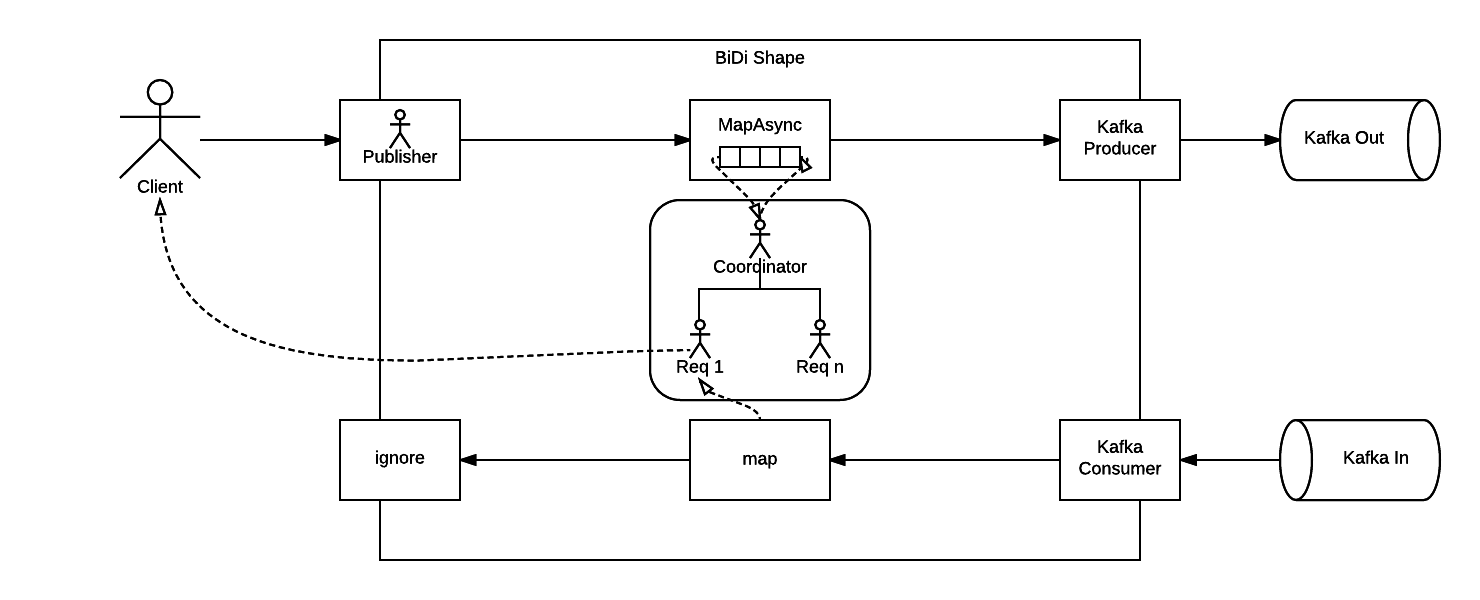
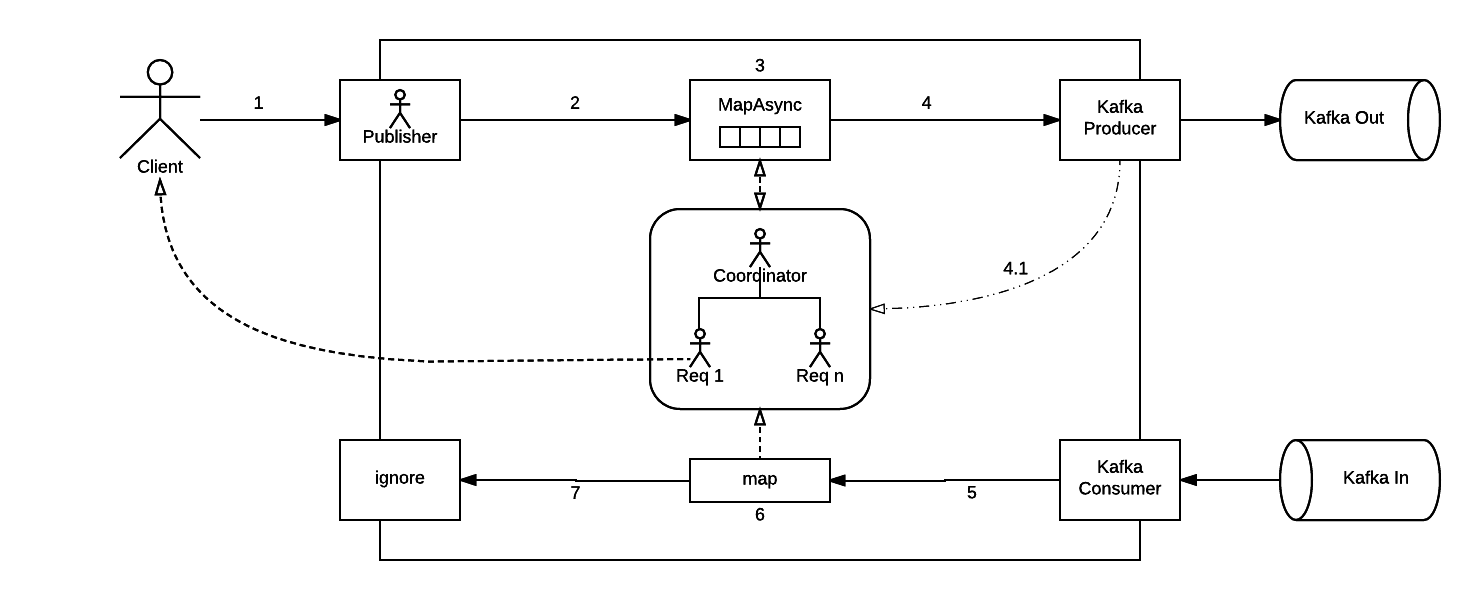
Updated documentation for the Reactive Client

diff --git a/docs/design/client.html b/docs/design/client.html
@@ -119,8 +119,8 @@ C16.952,7,17,6.553,17,6c0-0.553-0.048-1-0.6-1H3.6C3.048,5,3,5.447,3,6C3,6.553,3.
   <li><a href="../design/client.html#overview">Overview</a></li>
   <li><a href="../design/client.html#stream-blueprint">Stream Blueprint</a>
   <ul>
-    <li><a href="../design/client.html#left-to-right-flow">Left-To-Right Flow</a></li>
-    <li><a href="../design/client.html#right-to-left-flow">Right-To-Left Flow</a></li>
+    <li><a href="../design/client.html#request-flow-left-to-right-">Request Flow (Left-To-Right)</a></li>
+    <li><a href="../design/client.html#response-flow-right-to-left-">Response Flow (Right-To-Left)</a></li>
   </ul></li>
   <li><a href="../design/client.html#actor-per-request-pattern">Actor-Per-Request Pattern</a>
   <ul>
@@ -135,34 +135,39 @@ C16.952,7,17,6.553,17,6c0-0.553-0.048-1-0.6-1H3.6C3.048,5,3,5.447,3,6C3,6.553,3.
 <h2><a href="#stream-blueprint" name="stream-blueprint" class="anchor"><span class="anchor-link"></span></a>Stream Blueprint</h2>
 <p>The following diagram illustrates the Stream Blueprint for processing the incoming requests.</p>
 <p><img src="../images/reactive-client-stream-blueprint.png" alt="rcstream-blueprint" /></p>
-<h3><a href="#left-to-right-flow" name="left-to-right-flow" class="anchor"><span class="anchor-link"></span></a>Left-To-Right Flow</h3>
+<h3><a href="#request-flow-left-to-right-" name="request-flow-left-to-right-" class="anchor"><span class="anchor-link"></span></a>Request Flow (Left-To-Right)</h3>
 <ul>
-  <li>Whenever a request comes in, the Reactive System client spawns an actor by using the <em>Ask pattern</em> which sends a message to the Stream&rsquo;s Publisher and awaits for a response.</li>
-  <li>The request will flow downstream to the <em>Actor-Per-Request</em> Coordinator-Actor via a <em>mapAsync</em> stage. It will then:
+  <li>[ 1 ] Whenever a request comes in, the Reactive System client spawns an actor by using the <em>Ask pattern</em> which sends a message to the Stream&rsquo;s Publisher and awaits for a response.</li>
+  <li>[ 2 ]. The Publisher wraps the request together with the reference to the <em>ask-pattern-actor</em> as a <code>StreamRequestWithSender</code> and emits it downstream.</li>
+  <li>[ 3 ] The request will get into a <em>mapAsync</em> stage which is the integration point with the <em>Actor-Per-Request</em>, which will:
     <ul>
-      <li>Hold a reference to the ask-pattern-actor that will be completed on the right-to-left flow.</li>
-      <li>Transforms the request in a <code>KafkaRequestEnvelope</code> to be sent downstream.</li>
+      <li>Unwrap the <code>StreamRequestWithSender</code> message to hold the reference to the original <em>ask-pattern-actor</em>, which will be completed on the right-to-left flow.</li>
+      <li>Forge a <code>KafkaRequestEnvelope</code> for the request and sends it back to the <em>mapAsync</em> stage to be sent downstream.</li>
     </ul>
   </li>
-  <li>Sends the request through a Kafka Producer stage.</li>
+  <li>
+  <p>[ 4 ] Sends the request through a Kafka Producer stage.</p>
+  <blockquote>
+    <p>[ 4.1 ] When a <em>one-way-message</em> is sent to Kafka, this stage will send a <code>SendMessageComplete</code> to the <em>Actor-Per-Request</em> once the message is confirmed to be written in Kafka. That way the reply to the initial <em>ask-pattern-actor</em> can be sent straight away.</p>
+  </blockquote></li>
 </ul>
-<h3><a href="#right-to-left-flow" name="right-to-left-flow" class="anchor"><span class="anchor-link"></span></a>Right-To-Left Flow</h3>
+<h3><a href="#response-flow-right-to-left-" name="response-flow-right-to-left-" class="anchor"><span class="anchor-link"></span></a>Response Flow (Right-To-Left)</h3>
 <ul>
-  <li>The flow starts from a Kafka Consumer stage.</li>
-  <li>The response flow downstream to the <em>Actor-Per-Request</em> Coordinator-Actor via a <em>map</em> stage.
-    <ul>
-      <li>Is responsibility of the <em>Actor-Per-Request</em> implementation to reply to the initial ask-pattern-actor.</li>
-    </ul>
-  </li>
-  <li>The sink just ignores what comes from the flow as the responsibility of completing the request has been leveraged to the <em>Actor-Per-Request</em>.</li>
+  <li>[ 5 ] The flow starts from a Kafka Consumer stage when a response is received and decoded as a <code>KafkaResponseEnvelope</code> and emits it downstream.</li>
+  <li>
+  <p>[ 6 ] The response gets into a <em>map</em> stage which will send it to the <em>Actor-Per-Request</em> and emits <code>Unit</code> downstream.</p>
+  <blockquote>
+    <p>Is responsibility of the <em>Actor-Per-Request</em> to reply to the initial <em>ask-pattern-actor</em> in order to complete the original request.</p>
+  </blockquote></li>
+  <li>[ 7 ] The sink just ignores what comes from the flow as the responsibility of completing the request has been leveraged to the <em>Actor-Per-Request</em>.</li>
 </ul>
 <h2><a href="#actor-per-request-pattern" name="actor-per-request-pattern" class="anchor"><span class="anchor-link"></span></a>Actor-Per-Request Pattern</h2>
 <p>In a nutshell, the client will use an actor-per-request pattern in order to deliver the request and await for its response.</p>
 <p>The actor-per-request approach is implemented using Akka actors and its hierarchy consists of a parent Coordinator-Actor which creates and supervise one or many Request-Actor&rsquo;s.</p>
 <h3><a href="#coordinator-actor" name="coordinator-actor" class="anchor"><span class="anchor-link"></span></a>Coordinator Actor</h3>
 <p>Apart from supervising its children, the coordinator actor have two differentiated set of responsibilities:</p>
-<p>When receiving <strong>requests</strong>: - Accepts the incoming requests. - Generates a unique <code>correlationId</code> for each request. - Spawn a child actor that will be in charge of a particular request. - Tranforms the incoming request into a <code>KafkaRequestEnvelope</code> ready to be sent to Kafka and sends it downstream.</p>
-<p>When receiving <strong>responses</strong>: - Accepts the responses. - Based on the <code>correlationId</code> of the response, it looks for a child Request-Actor awaiting for the response and forwards the response to it.</p>
+<p>When receiving <strong>requests</strong>: * Accepts the incoming requests. * Generates a unique <code>correlationId</code> for each request. * Spawns a child actor that will be in charge of a particular request. * Tranforms the incoming request into a <code>KafkaRequestEnvelope</code> ready to be sent to Kafka and sends it downstream.</p>
+<p>When receiving <strong>responses</strong>: * Accepts the responses. * Based on the <code>correlationId</code> of the response, it looks for a child Request-Actor awaiting for the response and forwards the response to it.</p>
 <h3><a href="#request-actor" name="request-actor" class="anchor"><span class="anchor-link"></span></a>Request Actor</h3>
 <p>The main responsibility of a Request-Actor is to complete or time-out the request-cycle. </p>
 <p>When created, it&rsquo;s passed the source <em>ask-pattern-actor</em> reference to complete the cycle upon response reception and schedules a timeout in case the response is not received in a timely manner. </p>
@@ -178,8 +183,8 @@ C16.952,7,17,6.553,17,6c0-0.553-0.048-1-0.6-1H3.6C3.048,5,3,5.447,3,6C3,6.553,3.
     <li><a href="../design/client.html#overview">Overview</a></li>
     <li><a href="../design/client.html#stream-blueprint">Stream Blueprint</a>
     <ul>
-      <li><a href="../design/client.html#left-to-right-flow">Left-To-Right Flow</a></li>
-      <li><a href="../design/client.html#right-to-left-flow">Right-To-Left Flow</a></li>
+      <li><a href="../design/client.html#request-flow-left-to-right-">Request Flow (Left-To-Right)</a></li>
+      <li><a href="../design/client.html#response-flow-right-to-left-">Response Flow (Right-To-Left)</a></li>
     </ul></li>
     <li><a href="../design/client.html#actor-per-request-pattern">Actor-Per-Request Pattern</a>
     <ul>

diff --git a/docs/client.html b/docs/client.html
@@ -117,6 +117,7 @@ C16.952,7,17,6.553,17,6c0-0.553-0.048-1-0.6-1H3.6C3.048,5,3,5.447,3,6C3,6.553,3.
 <ul>
   <li><a href="client.html#overview">Overview</a></li>
   <li><a href="client.html#simple-request">Simple Request</a></li>
+  <li><a href="client.html#one-way-simple-request">One-Way Simple Request</a></li>
 </ul>
 </div>
 <h2><a href="#overview" name="overview" class="anchor"><span class="anchor-link"></span></a>Overview</h2>
@@ -179,12 +180,24 @@ val client = new ReactiveClientStream(ReactiveClientStreamConfig.default)
 val result: Future[Unit] = client.request[Int, Unit](&quot;kafka:simple/incrementCounter&quot;, 1)
 
 result.onComplete {
-  case Success(_)   =&gt; println(&quot;incrementCounter request sent successfully&quot;)
-  case Failure(err) =&gt; println(s&quot;error sending incrementCounter request: ${err.getMessage}&quot;)
+  case Success(_)   =&gt; println(&quot;incrementCounter request successfully completed&quot;)
+  case Failure(err) =&gt; println(s&quot;error requesting incrementCounter: ${err.getMessage}&quot;)
 }
 
 Await.ready(result, Duration.Inf)
 </code></pre>
+<h2><a href="#one-way-simple-request" name="one-way-simple-request" class="anchor"><span class="anchor-link"></span></a>One-Way Simple Request</h2>
+<p>The Reactive System client also allows to send a message to a remote service without awaiting for a reply from the target service.</p>
+<p>The following snippet shows how to invoke the API in order to send a message to the <code>incrementCounter</code> service without awaiting for a response:</p>
+<pre class="prettyprint"><code class="language-scala">val result: Future[Unit] = client.send[Int](&quot;kafka:simple/incrementCounter&quot;, 1, confirmSend = true)
+
+result.onComplete {
+  case Success(_)   =&gt; println(&quot;incrementCounter request successfully sent&quot;)
+  case Failure(err) =&gt; println(s&quot;error sending incrementCounter request: ${err.getMessage}&quot;)
+}
+
+Await.ready(result, Duration.Inf)</code></pre>
+<p>Please note even though this is a fire-and-forget way of sending a message, the API allows to be confirmed whether the message being successfully sent by setting the <code>confirmSend</code> flag.</p>
 <div class="nav-next">
 <p><strong>Next:</strong> <a href="marshalling.html">Marshalling</a></p>
 </div>
@@ -199,6 +212,7 @@ Await.ready(result, Duration.Inf)
   <ul>
     <li><a href="client.html#overview">Overview</a></li>
     <li><a href="client.html#simple-request">Simple Request</a></li>
+    <li><a href="client.html#one-way-simple-request">One-Way Simple Request</a></li>
   </ul></li>
 </ul>
 </div>

diff --git a/docs/design/index.html b/docs/design/index.html
@@ -122,8 +122,8 @@ C16.952,7,17,6.553,17,6c0-0.553-0.048-1-0.6-1H3.6C3.048,5,3,5.447,3,6C3,6.553,3.
     <li><a href="../design/client.html#overview">Overview</a></li>
     <li><a href="../design/client.html#stream-blueprint">Stream Blueprint</a>
     <ul>
-      <li><a href="../design/client.html#left-to-right-flow">Left-To-Right Flow</a></li>
-      <li><a href="../design/client.html#right-to-left-flow">Right-To-Left Flow</a></li>
+      <li><a href="../design/client.html#request-flow-left-to-right-">Request Flow (Left-To-Right)</a></li>
+      <li><a href="../design/client.html#response-flow-right-to-left-">Response Flow (Right-To-Left)</a></li>
     </ul></li>
     <li><a href="../design/client.html#actor-per-request-pattern">Actor-Per-Request Pattern</a>
     <ul>

diff --git a/docs/index.html b/docs/index.html
@@ -133,6 +133,7 @@ C16.952,7,17,6.553,17,6c0-0.553-0.048-1-0.6-1H3.6C3.048,5,3,5.447,3,6C3,6.553,3.
   <ul>
     <li><a href="client.html#overview">Overview</a></li>
     <li><a href="client.html#simple-request">Simple Request</a></li>
+    <li><a href="client.html#one-way-simple-request">One-Way Simple Request</a></li>
   </ul></li>
   <li><a href="marshalling.html">Marshalling</a>
   <ul>

diff --git a/documentation/src/main/paradox/design/client.md b/documentation/src/main/paradox/design/client.md
@@ -14,18 +14,20 @@ The following diagram illustrates the Stream Blueprint for processing the incomi
 
 ![rcstream-blueprint](../images/reactive-client-stream-blueprint.png)
 
-### Left-To-Right Flow
-* Whenever a request comes in, the Reactive System client spawns an actor by using the _Ask pattern_ which sends a message to the Stream's Publisher and awaits for a response.
-* The request will flow downstream to the _Actor-Per-Request_ Coordinator-Actor via a _mapAsync_ stage. It will then:
-    * Hold a reference to the ask-pattern-actor that will be completed on the right-to-left flow.
-    * Transforms the request in a `KafkaRequestEnvelope` to be sent downstream.
-* Sends the request through a Kafka Producer stage.
+### Request Flow (Left-To-Right)
+* [ 1 ] Whenever a request comes in, the Reactive System client spawns an actor by using the _Ask pattern_ which sends a message to the Stream's Publisher and awaits for a response.
+* [ 2 ]. The Publisher wraps the request together with the reference to the _ask-pattern-actor_ as a `StreamRequestWithSender` and emits it downstream. 
+* [ 3 ] The request will get into a _mapAsync_ stage which is the integration point with the _Actor-Per-Request_, which will:
+    * Unwrap the `StreamRequestWithSender` message to hold the reference to the original _ask-pattern-actor_, which will be completed on the right-to-left flow.
+    * Forge a `KafkaRequestEnvelope` for the request and sends it back to the _mapAsync_ stage to be sent downstream.
+* [ 4 ] Sends the request through a Kafka Producer stage.
+    > [ 4.1 ] When a _one-way-message_ is sent to Kafka, this stage will send a `SendMessageComplete` to the _Actor-Per-Request_ once the message is confirmed to be written in Kafka. That way the reply to the initial _ask-pattern-actor_ can be sent straight away.
 
-### Right-To-Left Flow
-* The flow starts from a Kafka Consumer stage.
-* The response flow downstream to the _Actor-Per-Request_ Coordinator-Actor via a _map_ stage.
-    * Is responsibility of the _Actor-Per-Request_ implementation to reply to the initial ask-pattern-actor.
-* The sink just ignores what comes from the flow as the responsibility of completing the request has been leveraged to the _Actor-Per-Request_.
+### Response Flow (Right-To-Left)
+* [ 5 ] The flow starts from a Kafka Consumer stage when a response is received and decoded as a `KafkaResponseEnvelope` and emits it downstream.
+* [ 6 ] The response gets into a _map_ stage which will send it to the _Actor-Per-Request_ and emits `Unit` downstream.
+    > Is responsibility of the _Actor-Per-Request_ to reply to the initial _ask-pattern-actor_ in order to complete the original request.
+* [ 7 ] The sink just ignores what comes from the flow as the responsibility of completing the request has been leveraged to the _Actor-Per-Request_.
 
 ## Actor-Per-Request Pattern
 
@@ -38,14 +40,14 @@ The actor-per-request approach is implemented using Akka actors and its hierarch
 Apart from supervising its children, the coordinator actor have two differentiated set of responsibilities:
 
 When receiving **requests**: 
-- Accepts the incoming requests.
-- Generates a unique `correlationId` for each request.
-- Spawn a child actor that will be in charge of a particular request.
-- Tranforms the incoming request into a `KafkaRequestEnvelope` ready to be sent to Kafka and sends it downstream.
+* Accepts the incoming requests.
+* Generates a unique `correlationId` for each request.
+* Spawns a child actor that will be in charge of a particular request.
+* Tranforms the incoming request into a `KafkaRequestEnvelope` ready to be sent to Kafka and sends it downstream.
 
 When receiving **responses**:
-- Accepts the responses.
-- Based on the `correlationId` of the response, it looks for a child Request-Actor awaiting for the response and forwards the response to it.
+* Accepts the responses.
+* Based on the `correlationId` of the response, it looks for a child Request-Actor awaiting for the response and forwards the response to it.
 
 ### Request Actor
 

diff --git a/documentation/src/main/paradox/client.md b/documentation/src/main/paradox/client.md
@@ -31,3 +31,13 @@ the `ReactiveSystem` instance.
 Here is the client code in order to invoke `incrementCounter`:
 
 @@snip [SimpleRSClient.scala](../../../../examples/client/src/main/scala/org/patricknoir/kafka/examples/client/SimpleRSClient.scala) { #reactive-client-call-get-counter }
+
+## One-Way Simple Request
+
+The Reactive System client also allows to send a message to a remote service without awaiting for a reply from the target service.
+
+The following snippet shows how to invoke the API in order to send a message to the `incrementCounter` service without awaiting for a response:
+
+@@snip [SimpleRSClient.scala](../../../../examples/client/src/main/scala/org/patricknoir/kafka/examples/client/SimpleRSClient.scala) { #reactive-client-one-way-message }
+
+Please note even though this is a fire-and-forget way of sending a message, the API allows to be confirmed whether the message being successfully sent by setting the `confirmSend` flag.
